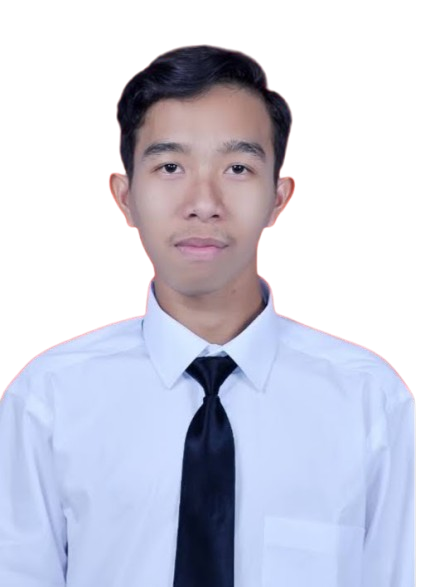
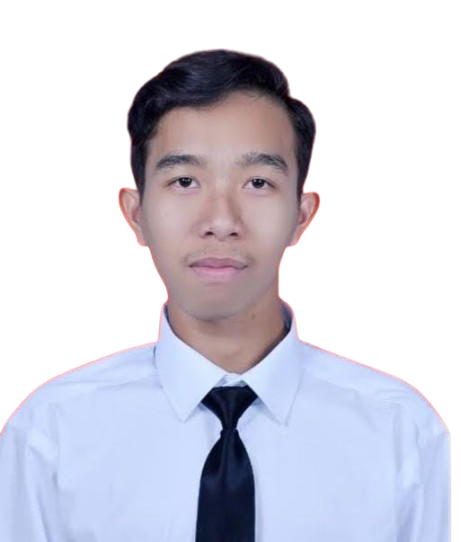
fix home profil.png

diff --git a/src/pages/Home.tsx b/src/pages/Home.tsx
@@ -129,17 +129,17 @@ export default function Home() {
   </span>
 </a>
             </div>
- 
+
             {/* Foto profil bulat + sapaan */}
             <div className="mt-12 flex items-center gap-x-4">
               <img
                 src="/profil.png"
                 alt="Foto Muhammad Zaky Novananda"
-                className="h-14 w-14 rounded-full object-cover ring-2 ring-blue-500/50"
+                className="h-20 w-20 sm:h-24 sm:w-24 rounded-full object-cover ring-2 ring-blue-500/50"
               />
               <span className="text-lg font-medium text-gray-300">Hi, I'm Nanda</span>
             </div>
- 
+
             <h1 className="mt-4 text-5xl font-bold tracking-tight sm:text-6xl lg:text-7xl">
               <span className="bg-gradient-to-r from-blue-500 to-cyan-400 bg-clip-text text-transparent">
                 Web Developer
@@ -147,7 +147,7 @@ export default function Home() {
             </h1>
  
             <p className="mt-6 text-lg font-medium text-pretty text-gray-400 sm:text-xl/8">
-              I am fresh graduate, and i am passionate in web development and machine learning.
+              i am fresh graduate, and i am passionate in web developer and machine learning.
             </p>
  
             <div className="mt-10 flex flex-wrap items-center gap-4">
